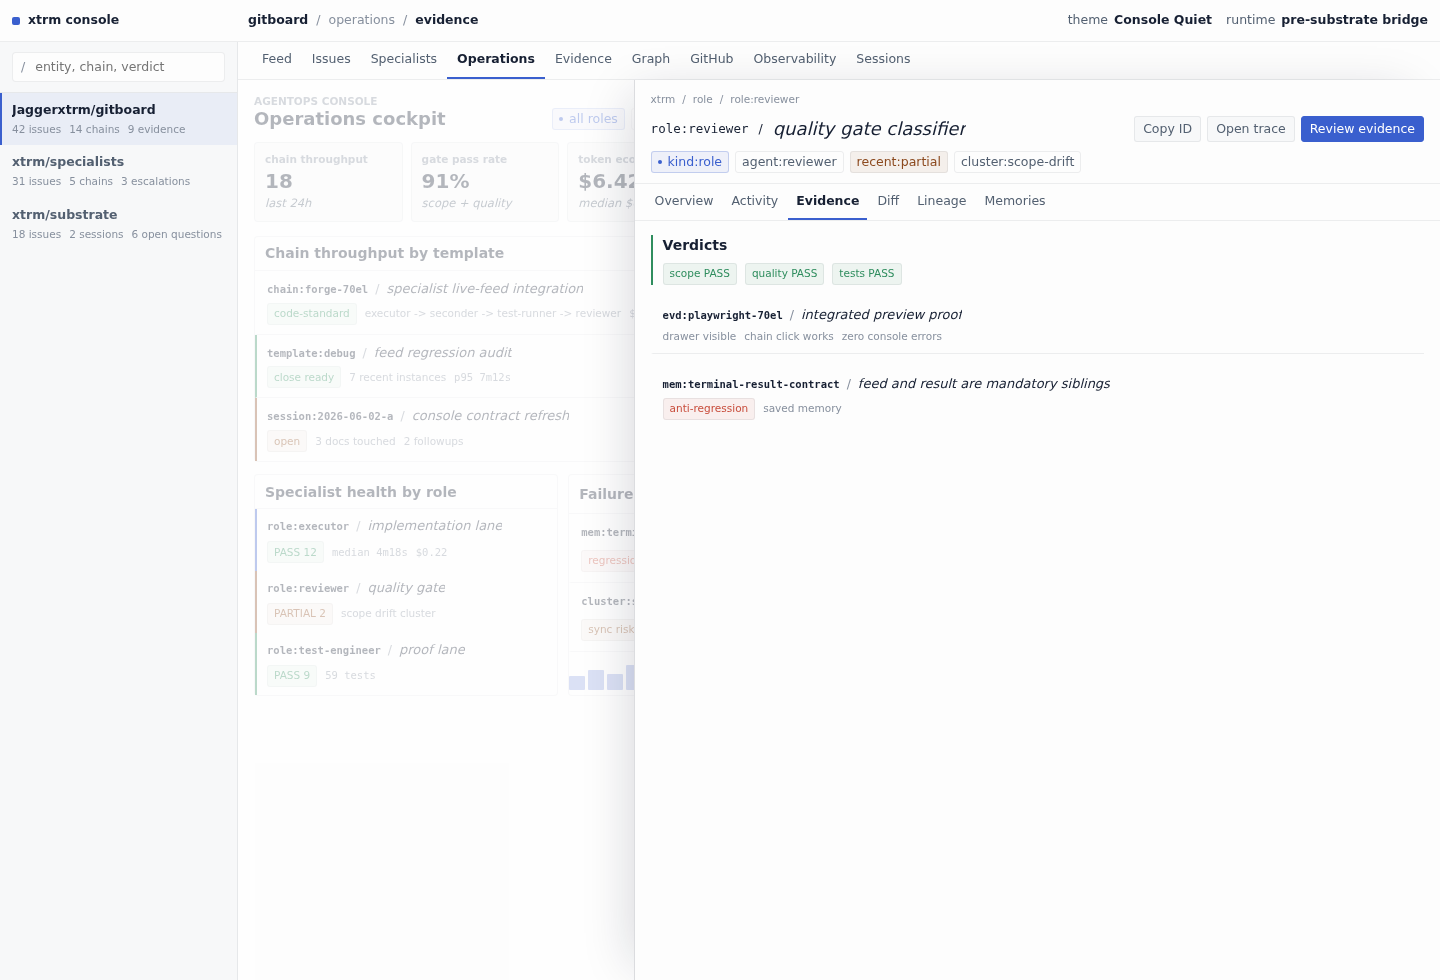
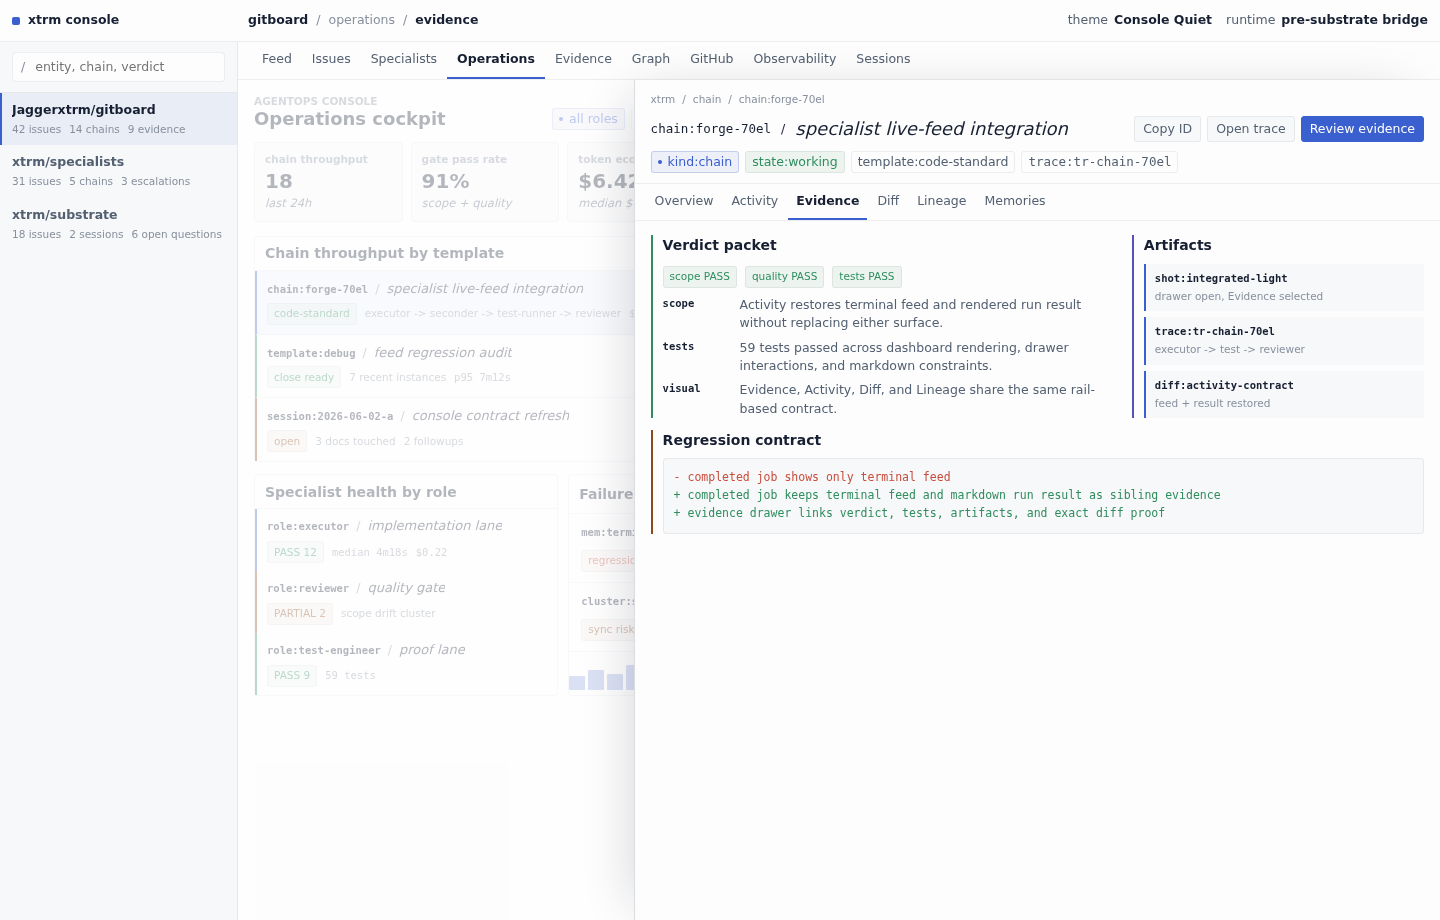
fix(gitboard): enrich roadmap evidence mock

diff --git a/apps/gitboard/design-mocks/post-roadmap-console.html b/apps/gitboard/design-mocks/post-roadmap-console.html
@@ -314,6 +314,147 @@
     .evidence-row.partial { border-left-color: var(--blocked); }
     .evidence-row.fail { border-left-color: var(--danger); }
 
+    .evidence-summary {
+      display: grid;
+      gap: 8px;
+      grid-template-columns: repeat(4, minmax(0, 1fr));
+      padding: 10px;
+    }
+    .verdict-card {
+      background: var(--surface-2);
+      border-left: 2px solid var(--ready);
+      display: grid;
+      gap: 4px;
+      min-width: 0;
+      padding: 8px 0 8px 10px;
+    }
+    .verdict-card.warn { border-left-color: var(--blocked); }
+    .verdict-card.fail { border-left-color: var(--danger); }
+    .verdict-card label {
+      color: var(--text-muted);
+      font-size: 10px;
+      font-weight: 720;
+      text-transform: uppercase;
+    }
+    .verdict-card strong {
+      color: var(--text-primary);
+      font-family: var(--font-mono);
+      font-size: 15px;
+      font-weight: 720;
+    }
+    .verdict-card span {
+      color: var(--text-secondary);
+      font-size: 10.5px;
+      overflow: hidden;
+      text-overflow: ellipsis;
+      white-space: nowrap;
+    }
+
+    .proof-stack {
+      border-top: 1px solid var(--line-subtle);
+      display: grid;
+    }
+    .proof-row {
+      background: transparent;
+      border: 0;
+      border-left: 2px solid var(--ready);
+      border-bottom: 1px solid var(--line-subtle);
+      color: inherit;
+      display: grid;
+      gap: 8px;
+      grid-template-columns: minmax(150px, 0.62fr) minmax(0, 1.6fr) minmax(120px, 0.72fr);
+      min-width: 0;
+      padding: 10px;
+      text-align: left;
+      width: 100%;
+    }
+    .proof-row:last-child { border-bottom: 0; }
+    .proof-row:hover { background: rgba(58, 95, 206, 0.035); }
+    .proof-row.warn { border-left-color: var(--blocked); }
+    .proof-row.fail { border-left-color: var(--danger); }
+    .proof-kind {
+      display: grid;
+      gap: 4px;
+      min-width: 0;
+    }
+    .proof-kind strong {
+      color: var(--text-primary);
+      font-family: var(--font-mono);
+      font-size: 11px;
+      overflow: hidden;
+      text-overflow: ellipsis;
+      white-space: nowrap;
+    }
+    .proof-copy {
+      color: var(--text-secondary);
+      line-height: 1.45;
+      min-width: 0;
+    }
+    .proof-copy b {
+      color: var(--text-primary);
+      font-weight: 650;
+    }
+    .proof-evidence {
+      align-content: start;
+      display: flex;
+      flex-wrap: wrap;
+      gap: 5px;
+      justify-content: flex-end;
+      min-width: 0;
+    }
+
+    .drawer-proof-grid {
+      display: grid;
+      gap: 10px;
+      grid-template-columns: minmax(0, 1fr) minmax(180px, 0.62fr);
+    }
+    .proof-card {
+      border-left: 2px solid var(--ready);
+      display: grid;
+      gap: 8px;
+      min-width: 0;
+      padding-left: 10px;
+    }
+    .proof-card.warn { border-left-color: var(--blocked); }
+    .proof-card.purple { border-left-color: var(--purple); }
+    .proof-list {
+      display: grid;
+      gap: 6px;
+      margin: 0;
+      padding: 0;
+    }
+    .proof-list li {
+      color: var(--text-secondary);
+      display: grid;
+      gap: 3px;
+      grid-template-columns: 74px minmax(0, 1fr);
+      list-style: none;
+      min-width: 0;
+    }
+    .proof-list b {
+      color: var(--text-primary);
+      font-family: var(--font-mono);
+      font-size: 10.5px;
+      font-weight: 650;
+    }
+    .artifact-grid {
+      display: grid;
+      gap: 6px;
+    }
+    .artifact {
+      background: var(--surface-2);
+      border-left: 2px solid var(--accent);
+      display: grid;
+      gap: 3px;
+      padding: 7px 0 7px 9px;
+    }
+    .artifact strong {
+      color: var(--text-primary);
+      font-family: var(--font-mono);
+      font-size: 10.5px;
+      font-weight: 650;
+    }
+
     .identity {
       align-items: baseline;
       display: flex;
@@ -535,6 +676,11 @@
     .diff .add { color: var(--ready); }
     .diff .del { color: var(--danger); }
 
+    @media (max-width: 1320px) {
+      .proof-row { grid-template-columns: minmax(140px, 0.7fr) minmax(0, 1.3fr); }
+      .proof-evidence { grid-column: 1 / -1; justify-content: flex-start; }
+    }
+
     @media (max-width: 1180px) {
       .app { min-width: 0; grid-template-columns: 52px minmax(0, 1fr); }
       .brand { width: 34px; }
@@ -545,6 +691,8 @@
       .content { grid-template-columns: 1fr; }
       .pane + .pane { border-left: 0; border-top: 1px solid var(--line-subtle); }
       .drawer { grid-template-columns: 0 minmax(360px, 100vw); }
+      .evidence-summary,
+      .drawer-proof-grid { grid-template-columns: 1fr; }
     }
   </style>
 </head>
@@ -683,22 +831,59 @@
 
           <div class="surface">
             <div class="surface-head">
-              <h2>Recent verdicts and proofs</h2>
+              <h2>Proof ledger</h2>
               <div class="top-spacer"></div>
-              <button class="chip is-active">all evidence</button>
+              <button class="chip is-active">validated</button>
+              <button class="chip">needs review</button>
             </div>
-            <button class="evidence-row pass is-active" data-entity="evidence">
-              <span class="identity"><span class="id">evd:playwright-70el</span><span class="sep">/</span><span class="title">drawer + feed + result verified</span></span>
-              <span class="meta-line"><span class="chip state-ready">PASS</span><span class="mono">59 tests</span><span>screenshots attached</span><span>trace:tr-chain-70el</span></span>
-            </button>
-            <button class="evidence-row partial" data-entity="issue">
-              <span class="identity"><span class="id">iss:70el-review</span><span class="sep">/</span><span class="title">reviewer found visual drift in activity rail</span></span>
-              <span class="meta-line"><span class="chip state-warn">PARTIAL</span><span>2 findings</span><span>needs design contract check</span></span>
-            </button>
-            <button class="evidence-row fail" data-entity="memory">
-              <span class="identity"><span class="id">mem:run-result-regression</span><span class="sep">/</span><span class="title">terminal feed must not replace markdown result</span></span>
-              <span class="meta-line"><span class="chip state-fail">FAIL pattern</span><span>anti-regression rule saved</span></span>
-            </button>
+            <div class="evidence-summary">
+              <div class="verdict-card">
+                <label>verdict</label>
+                <strong>PASS</strong>
+                <span>reviewer accepted scope</span>
+              </div>
+              <div class="verdict-card">
+                <label>tests</label>
+                <strong>59</strong>
+                <span>dashboard + unit + e2e</span>
+              </div>
+              <div class="verdict-card warn">
+                <label>findings</label>
+                <strong>2 fixed</strong>
+                <span>activity rail and result markdown</span>
+              </div>
+              <div class="verdict-card">
+                <label>artifacts</label>
+                <strong>3</strong>
+                <span>screenshots and diff proof</span>
+              </div>
+            </div>
+            <div class="proof-stack">
+              <button class="proof-row" data-entity="evidence">
+                <span class="proof-kind">
+                  <strong>evd:playwright-70el</strong>
+                  <span class="meta-line"><span class="chip state-ready">PASS</span><span class="mono">12:41</span></span>
+                </span>
+                <span class="proof-copy"><b>Drawer + feed + result verified.</b> Entity switching, Evidence tab, Activity tab, terminal feed persistence, and markdown result rendering all passed without console errors.</span>
+                <span class="proof-evidence"><span class="chip">screenshot</span><span class="chip">console clean</span><span class="chip">trace:tr-chain-70el</span></span>
+              </button>
+              <button class="proof-row warn" data-entity="issue">
+                <span class="proof-kind">
+                  <strong>iss:70el-review</strong>
+                  <span class="meta-line"><span class="chip state-warn">PARTIAL</span><span class="mono">reviewer</span></span>
+                </span>
+                <span class="proof-copy"><b>Visual drift detected and repaired.</b> The completed job view had terminal feed visibility but lost the rendered run result and made the activity rail feel fragmented.</span>
+                <span class="proof-evidence"><span class="chip">2 findings</span><span class="chip">fixed in mock</span><span class="chip">contract checked</span></span>
+              </button>
+              <button class="proof-row fail" data-entity="memory">
+                <span class="proof-kind">
+                  <strong>mem:run-result-regression</strong>
+                  <span class="meta-line"><span class="chip state-fail">GUARD</span><span class="mono">saved</span></span>
+                </span>
+                <span class="proof-copy"><b>Anti-regression rule.</b> Specialist activity must persist terminal feed and rendered markdown result as sibling evidence, collapsed by default but always recoverable.</span>
+                <span class="proof-evidence"><span class="chip">memory</span><span class="chip">bead contract</span><span class="chip">future gate</span></span>
+              </button>
+            </div>
           </div>
 
           <div class="surface">
@@ -780,18 +965,31 @@
             </section>
 
             <section class="drawer-panel" id="panel-evidence">
-              <div class="info-rail ready">
-                <h2>Verdicts</h2>
-                <span class="meta-line"><span class="chip state-ready">scope PASS</span><span class="chip state-ready">quality PASS</span><span class="chip state-ready">tests PASS</span></span>
+              <div class="drawer-proof-grid">
+                <div class="proof-card">
+                  <h2>Verdict packet</h2>
+                  <span class="meta-line"><span class="chip state-ready">scope PASS</span><span class="chip state-ready">quality PASS</span><span class="chip state-ready">tests PASS</span></span>
+                  <ul class="proof-list">
+                    <li><b>scope</b><span>Activity restores terminal feed and rendered run result without replacing either surface.</span></li>
+                    <li><b>tests</b><span>59 tests passed across dashboard rendering, drawer interactions, and markdown constraints.</span></li>
+                    <li><b>visual</b><span>Evidence, Activity, Diff, and Lineage share the same rail-based contract.</span></li>
+                  </ul>
+                </div>
+                <div class="proof-card purple">
+                  <h2>Artifacts</h2>
+                  <div class="artifact-grid">
+                    <div class="artifact"><strong>shot:integrated-light</strong><span class="meta-line">drawer open, Evidence selected</span></div>
+                    <div class="artifact"><strong>trace:tr-chain-70el</strong><span class="meta-line">executor -> test -> reviewer</span></div>
+                    <div class="artifact"><strong>diff:activity-contract</strong><span class="meta-line">feed + result restored</span></div>
+                  </div>
+                </div>
               </div>
-              <button class="entity-row" data-entity="evidence">
-                <span class="identity"><span class="id">evd:playwright-70el</span><span class="sep">/</span><span class="title">integrated preview proof</span></span>
-                <span class="meta-line"><span>drawer visible</span><span>chain click works</span><span>zero console errors</span></span>
-              </button>
-              <button class="entity-row" data-entity="memory">
-                <span class="identity"><span class="id">mem:terminal-result-contract</span><span class="sep">/</span><span class="title">feed and result are mandatory siblings</span></span>
-                <span class="meta-line"><span class="chip state-fail">anti-regression</span><span>saved memory</span></span>
-              </button>
+              <div class="proof-card warn">
+                <h2>Regression contract</h2>
+                <div class="diff"><span class="del">- completed job shows only terminal feed</span>
+<span class="add">+ completed job keeps terminal feed and markdown run result as sibling evidence</span>
+<span class="add">+ evidence drawer links verdict, tests, artifacts, and exact diff proof</span></div>
+              </div>
             </section>
 
             <section class="drawer-panel" id="panel-diff">